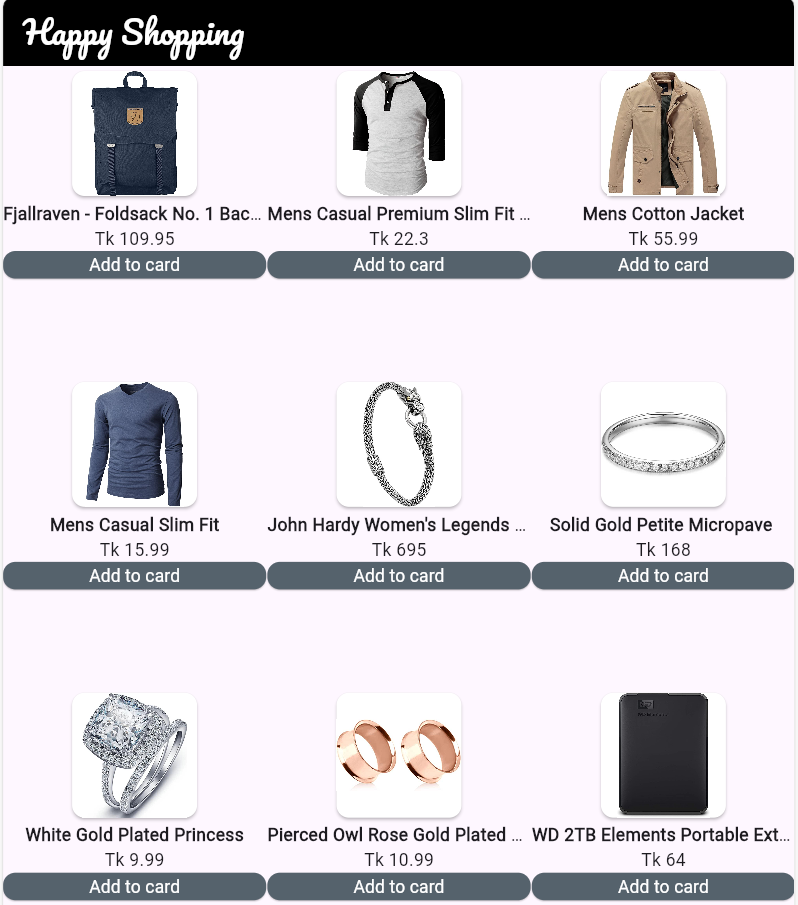
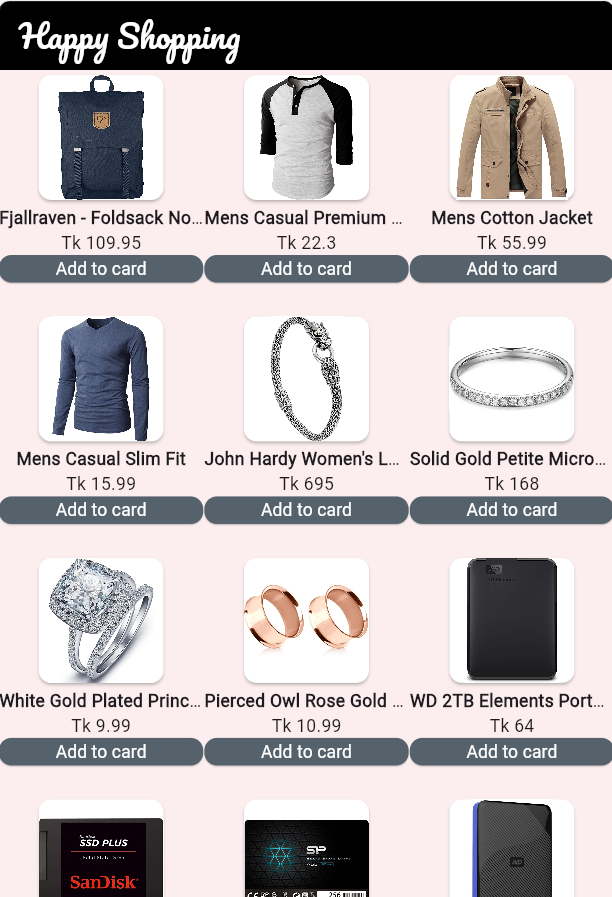
final submission 2.0

diff --git a/lib/homepage.dart b/lib/homepage.dart
@@ -44,6 +44,8 @@ class _HomePageState extends State<HomePage> {
   @override
   Widget build(BuildContext context) {
     return Scaffold(
+      backgroundColor: Color.fromARGB(255, 252, 238, 238), // soft pink
+
       appBar: AppBar(
        
 title: Text(
